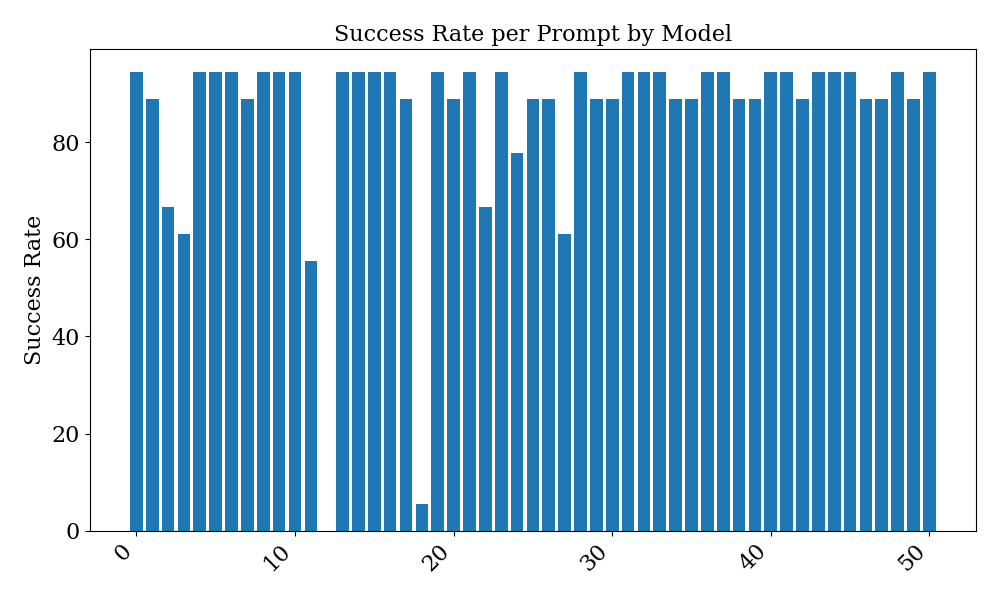
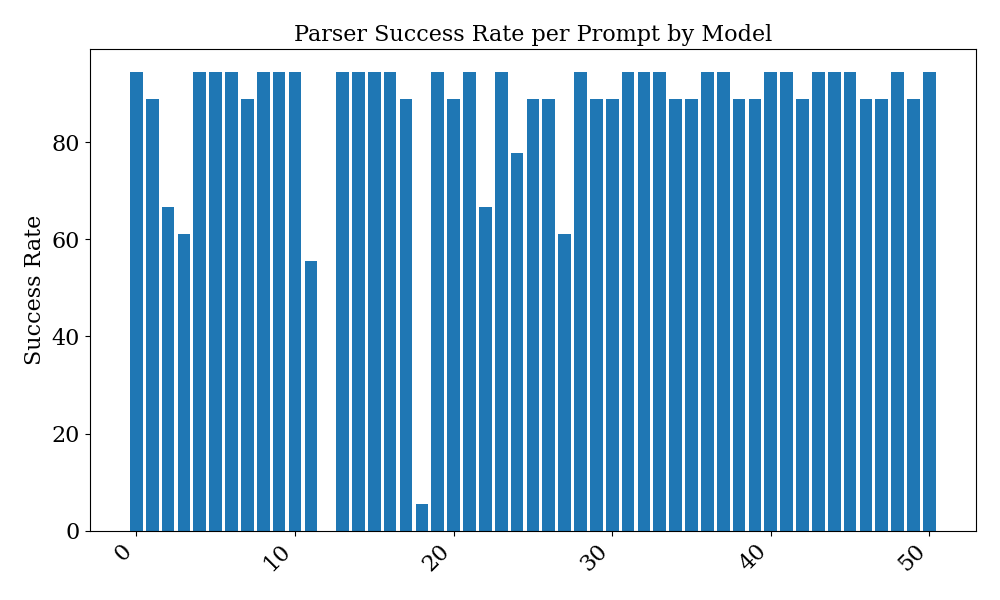
added success rate per prompt

Changed region(s): [[0.279, 0.03, 0.775, 0.09]]

diff --git a/scripts/summarize_eval.py b/scripts/summarize_eval.py
@@ -186,12 +186,36 @@ def parser_success_rate_per_prompt_chart(config, eval_results):
     plt.figure(figsize=(10, 6))
     plt.bar([prompt_idx for prompt_idx in success_rate_per_prompt.keys()], [success_rate_per_prompt[prompt_idx] for prompt_idx in success_rate_per_prompt.keys()], label='Success')
     plt.ylabel('Success Rate')
-    plt.title('Success Rate per Prompt by Model')
+    plt.title('Parser Success Rate per Prompt by Model')
     plt.xticks(rotation=45, ha='right')
     plt.tight_layout()
     plt.savefig(config['eval_directory'] / 'parser_success_rate_per_prompt.png')
     plt.close()
 
+def eval_success_rate_per_prompt_chart(config, eval_results):
+    success_per_prompt = {}
+    queries_per_prompt = {}
+    success_results = eval_results["success_results"]
+    model_list = success_results.keys()
+    for model_name in model_list:
+        for result in success_results[model_name]:
+            prompt_idx = result["prompt_idx"]
+            queries_per_prompt[prompt_idx] = queries_per_prompt.get(prompt_idx, 0) + 1
+            success_per_prompt[prompt_idx] = success_per_prompt.get(prompt_idx, 0) + int(result["is_equivalent"])
+    success_rate_per_prompt = {}
+    for prompt_idx in success_per_prompt.keys():
+        if queries_per_prompt[prompt_idx] == 0:
+            success_rate_per_prompt[prompt_idx] = 0
+        else:
+            success_rate_per_prompt[prompt_idx] = success_per_prompt[prompt_idx] / queries_per_prompt[prompt_idx] * 100
+    plt.figure(figsize=(10, 6))
+    plt.bar([prompt_idx for prompt_idx in success_rate_per_prompt.keys()], [success_rate_per_prompt[prompt_idx] for prompt_idx in success_rate_per_prompt.keys()], label='Success')
+    plt.ylabel('Success Rate')
+    plt.title('Success Rate per Prompt by Model')
+    plt.xticks(rotation=45, ha='right')
+    plt.tight_layout()
+    plt.savefig(config['eval_directory'] / 'eval_success_rate_per_prompt.png')
+    plt.close()
 
 if __name__ == "__main__":
     config = load_config()
@@ -201,3 +225,4 @@ if __name__ == "__main__":
     parser_success_rate_per_prompt_chart(config, eval_results)
     pass_at_1_rate_chart(config, eval_results)
     pass_rate_per_problem_type_chart(config, eval_results)
+    eval_success_rate_per_prompt_chart(config, eval_results)
